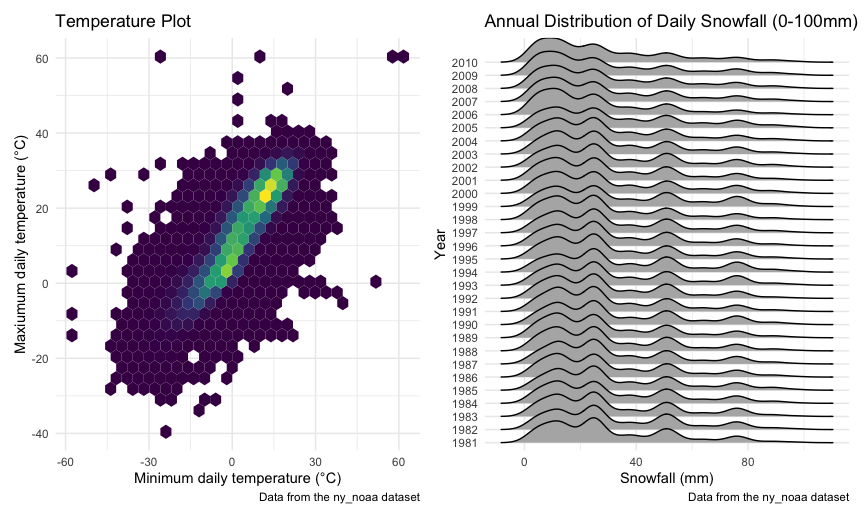
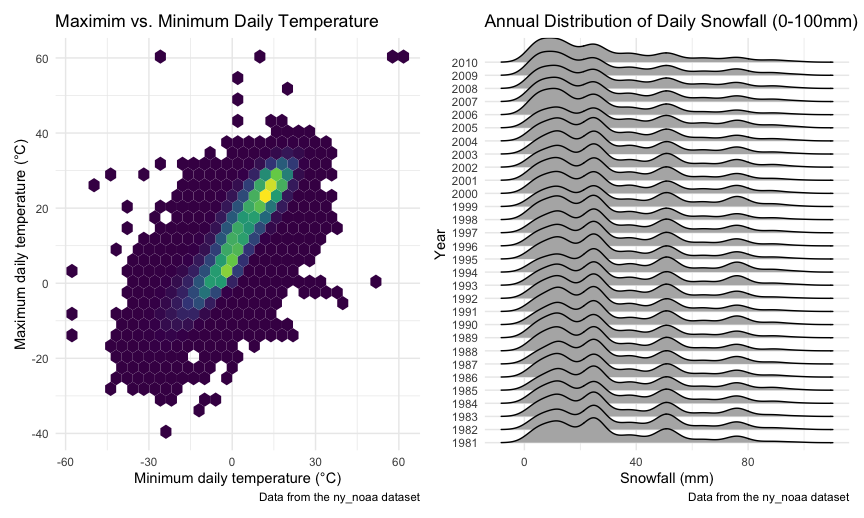
consolidated set up chunks

Changed region(s): [[0.0, 0.2471, 0.0312, 0.6795], [0.0625, 0.0309, 0.4375, 0.0618]]

diff --git a/p8105_hw3_stt2133.md b/p8105_hw3_stt2133.md
@@ -117,9 +117,9 @@ ggp_tmax_tmin = noaa |>
   ggplot(aes(x = tmin, y = tmax)) +
   geom_hex() +
   labs(
-    title = "Temperature Plot",
+    title = "Maximim vs. Minimum Daily Temperature",
     x = "Minimum daily temperature (°C)",
-    y = "Maxiumum daily temperature (°C)",
+    y = "Maximum daily temperature (°C)",
     caption = "Data from the ny_noaa dataset") +
   theme(legend.position = "none")
 
@@ -494,17 +494,17 @@ citi |>
 The plot allows us to investigate the effects of day of the week, month,
 and year on median ride duration. In `January` of `2024`,
 `median_duration` was quite relatively consistent throughout the weak,
-albeit trending upwards from a low of just under `7.5` rides on
-`Tuesday` to a high of ~`8` rides on `Saturday`. On the other hand, in
+albeit trending upwards from a low of just under `7.5` minutes on
+`Tuesday` to a high of ~`8` minutes on `Saturday`. On the other hand, in
 `July` of `2020`, we see a marked difference in `median_duration` across
-the week, from ~`13` rides on `Friday` all the way to over `16` rides
-over the weekend days of `Saturday` and `Sunday`. That same trend can be
-appreciated to less exaggerated degree in the other two combinations of
-`month` and `year`, namely `January` of `2020` and `July` of `2024`,
-with noticeably higher `median_duration` of rides on `Saturday` and
-`Sunday`. As alluded to previously, `July` of `2020` saw the highest
-`median_duration` values across the week, while `January` of `2024` saw
-the lowest. This leads me to mentioning a clear pattern in
+the week, from ~`13` minutes on `Friday` all the way to over `16`
+minutes over the weekend days of `Saturday` and `Sunday`. That same
+trend can be appreciated to less exaggerated degree in the other two
+combinations of `month` and `year`, namely `January` of `2020` and
+`July` of `2024`, with noticeably higher `median_duration` of rides on
+`Saturday` and `Sunday`. As alluded to previously, `July` of `2020` saw
+the highest `median_duration` values across the week, while `January` of
+`2024` saw the lowest. This leads me to mentioning a clear pattern in
 `median_duration` of rides in `January` vs `July`. Median duration of
 rides was higher in `July` than `January`, particularly over the
 weekends, as mentioned.
